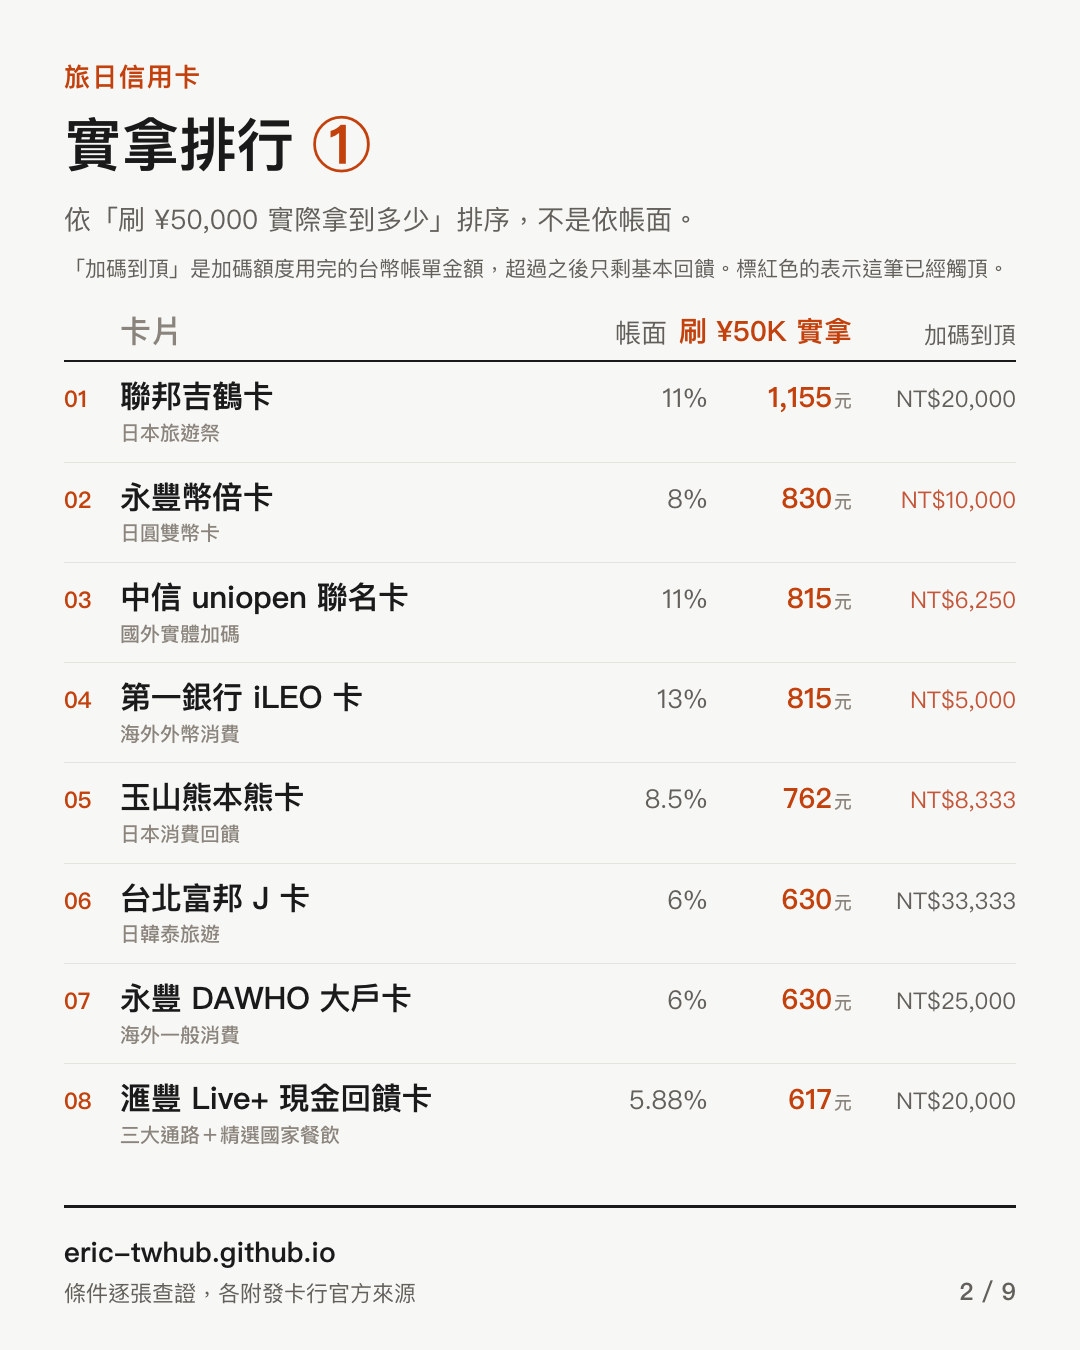
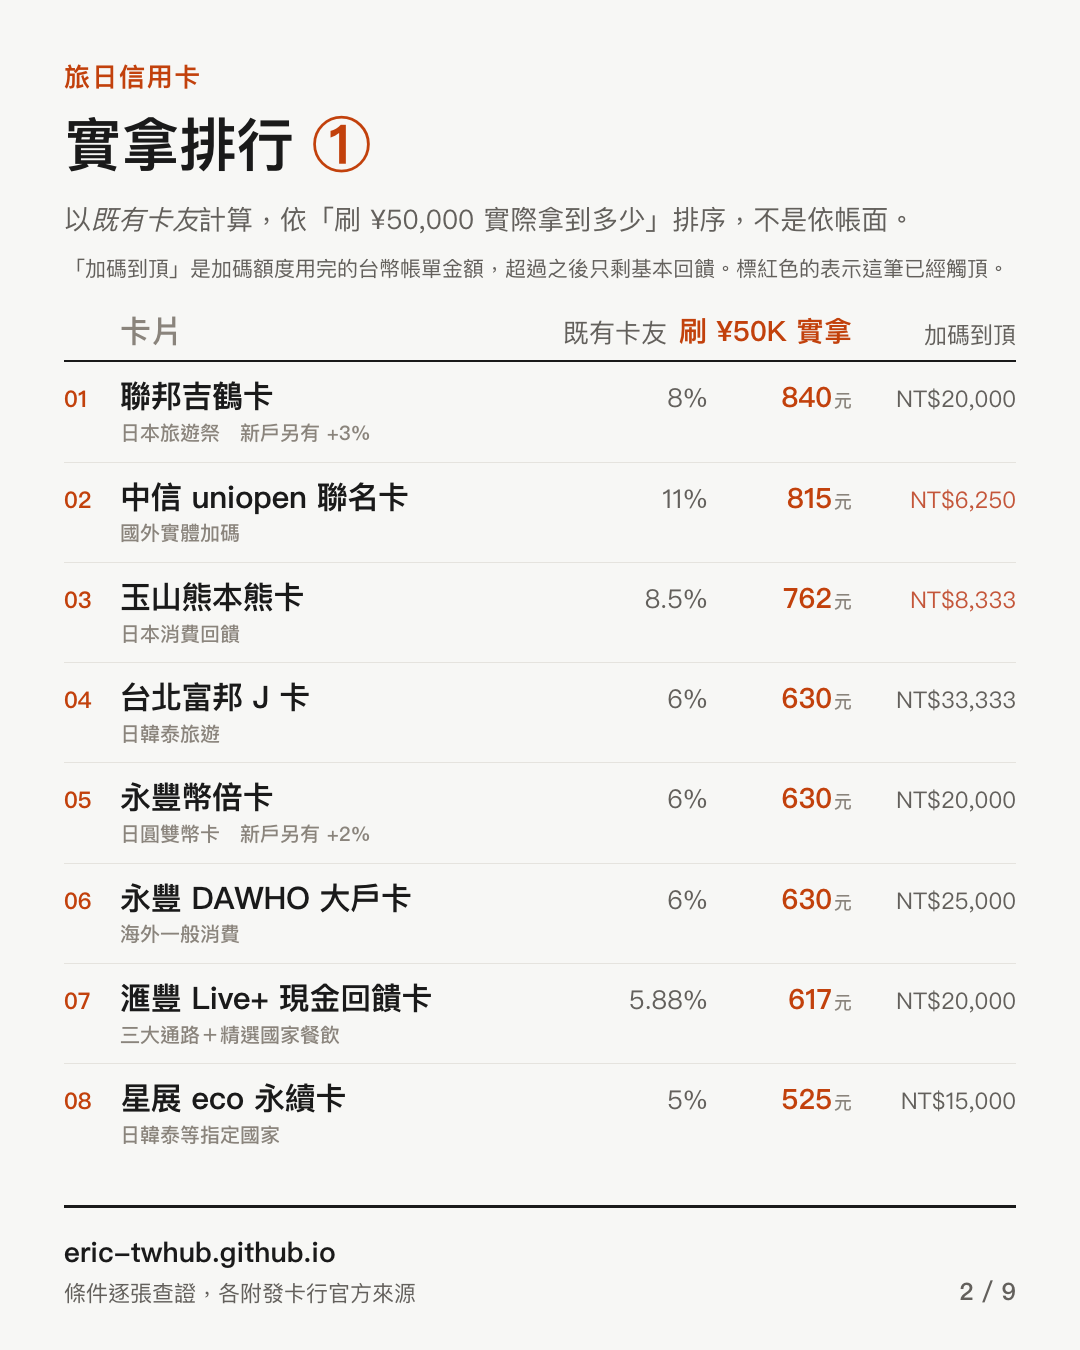
實拿排行改用既有卡友計算，新戶加碼不算進來
使用者指出排行偏高：新戶加碼是核卡後一次性的，15 張裡只有 3 張有，
而多數讀者手上的卡早就不是新辦的，照含新戶的數字排等於替大部分人高估。

排序、實拿金額、帳面欄、加碼到頂全部改成 newbie=False，hit() 也補上那個
參數，否則「加碼到頂」會印新戶那一層的門檻（iLEO 會印 5,000，實際是 20,000）。

排名變動很大：

  第一銀行 iLEO　第 4 名 815 元（13%）→ 第 15 名 315 元（3%），掉到最後
  聯邦吉鶴卡　　 第 1 名 1,155 元（11%）→ 仍第 1 但 840 元（8%）
  永豐幣倍卡　　 第 2 名 830 元（8%）→ 第 5 名 630 元（6%）
  中信 uniopen　第 3 名 → 第 2 名，815 元不變

那三張在卡名底下標「新戶另有 +X%」，數字沒有消失只是換位置，完整的
新戶對照仍在第 4 張。欄位標題從「帳面」改成「既有卡友」，副標寫明
「以既有卡友計算」。

第 5 張的階梯同步改：¥10,000 與 ¥30,000 的第一名從第一銀行 iLEO 變成
中信 uniopen，而且「含新戶加碼」那個標籤拿掉了，因為整張卡現在就是
以既有卡友計算，標了反而矛盾。

封面的實拿數字跟著改成 840，「帳面最高 13%、老客戶只有 3%」那組對照
不動，而且因為 iLEO 現在排最後，封面那句「那不是帳面第一名的那張」
反而更成立。

第一次重產時第 2 張超出頁尾 4px，副標從兩句縮成一句後過關。離開碼 0，
九張版面檢查全過，第 2 張開圖確認過。

diff --git a/make_creditcard_cards.py b/make_creditcard_cards.py
@@ -184,8 +184,8 @@ def make_math(CD, mid, fee):
         base = 0 if any(t.get('no_base') for t in ts) else c['base']
         return round(base + sum(t['rate'] for t in ts), 2)
 
-    def hit(c, scope='shop'):
-        ts = [t for t in tiers(c, scope) if t['cap']]
+    def hit(c, scope='shop', newbie=True):
+        ts = [t for t in tiers(c, scope, newbie) if t['cap']]
         return round(min(t['cap'] / (t['rate'] / 100) for t in ts)) if ts else 0
 
     return bill, tiers, back, maxrate, hit
@@ -201,8 +201,10 @@ def build(CD, mid, fee, rate_note):
     def rate_txt(v):
         return f'{v:g}%'
 
-    # 依「刷 DEMO_JPY 實際拿到多少」排序，這才是讀者真正會拿到的順序
-    ranked = sorted(cards, key=lambda c: -back(c, DEMO_JPY)[0])
+    # 依「刷 DEMO_JPY 實際拿到多少」排序，而且一律以既有卡友計算。
+    # 新戶加碼是核卡後一次性的，15 張裡只有 3 張有，算進去會讓整個排行偏高，
+    # 而多數讀者手上的卡早就不是新辦的。新戶的數字留在第 4 張單獨講。
+    ranked = sorted(cards, key=lambda c: -back(c, DEMO_JPY, 'shop', False)[0])
     newbie_gap = [c for c in cards if maxrate(c) != maxrate(c, newbie=False)]
 
     # ── 1 封面 ──
@@ -218,32 +220,36 @@ def build(CD, mid, fee, rate_note):
              f'<div><b>{maxrate(top_paper, newbie=False):g}%</b>'
              f'<span>同一張卡<br>老客戶只有</span></div>'
              f'<div><b>{len(newbie_gap)}</b><span>張的帳面<br>含新戶限定</span></div></div>'
-             f'<div class="note">實際刷 ¥{DEMO_JPY:,}（帳單約 NT${demo_bill:,.0f}）'
-             f'回饋最高的是<b>{E(top_real["name"])}</b>，'
-             f'拿得到 NT${back(top_real, DEMO_JPY)[0]:,.0f}。'
+             f'<div class="note">既有卡友實際刷 ¥{DEMO_JPY:,}'
+             f'（帳單約 NT${demo_bill:,.0f}）回饋最高的是'
+             f'<b>{E(top_real["name"])}</b>，'
+             f'拿得到 NT${back(top_real, DEMO_JPY, "shop", False)[0]:,.0f}。'
              f'那不是帳面第一名的那張。</div>' + foot(1, n))
     out.append(('jp-card-01.png', page(cover, 'cover')))
 
     # ── 2、3 帳面 vs 實際 ──
     def rank_card(idx, part, items, start):
         rows = ('<div class="hd"><div class="num"></div><div class="nm">卡片</div>'
-                '<div class="c1">帳面</div>'
+                '<div class="c1">既有卡友</div>'
                 f'<div class="c2">刷 ¥{DEMO_JPY // 1000}K 實拿</div>'
                 '<div class="c3">加碼到頂</div></div>')
         for j, c in enumerate(items, start):
-            v, capped = back(c, DEMO_JPY)
-            h = hit(c)
+            v, capped = back(c, DEMO_JPY, 'shop', False)
+            h = hit(c, 'shop', False)
+            nb = round(maxrate(c, 'shop') - maxrate(c, 'shop', newbie=False), 2)
             rows += (f'<div class="row"><div class="num">{j:02}</div>'
                      f'<div class="nm">{E(c["name"])}<s>{E(c["plan"])}'
+                     + (f'　新戶另有 +{nb:g}%' if nb else '')
                      + (f'　官方 {c["total"]:g}%，一層已額滿' if soldout(c) else '')
                      + '</s></div>'
-                     f'<div class="c1">{rate_txt(facerate(c))}</div>'
+                     f'<div class="c1">{rate_txt(maxrate(c, "shop", newbie=False))}</div>'
                      f'<div class="c2">{v:,.0f}<small>元</small></div>'
                      f'<div class="c3{" warn" if capped else ""}">'
                      + (f'NT${h:,}' if h else '無上限') + '</div></div>')
         return ('<div class="kick">旅日信用卡</div>'
                 f'<h1>實拿排行 <em>{part}</em></h1>'
-                f'<div class="sub">依「刷 ¥{DEMO_JPY:,} 實際拿到多少」排序，不是依帳面。</div>'
+                f'<div class="sub">以<em>既有卡友</em>計算，'
+                f'依「刷 ¥{DEMO_JPY:,} 實際拿到多少」排序，不是依帳面。</div>'
                 '<div class="legend">「加碼到頂」是加碼額度用完的台幣帳單金額，'
                 '超過之後只剩基本回饋。標紅色的表示這筆已經觸頂。</div>'
                 f'<div class="list">{rows}</div>' + foot(idx, n))
@@ -271,13 +277,12 @@ def build(CD, mid, fee, rate_note):
     rows = ('<div class="hd"><div class="num"></div><div class="nm">日幣消費</div>'
             '<div class="c2">回饋最高的卡</div><div class="c3">有效回饋率</div></div>')
     for y in LADDER:
-        best = max(cards, key=lambda c: back(c, y)[0])
-        v = back(best, y)[0]
+        best = max(cards, key=lambda c: back(c, y, 'shop', False)[0])
+        v = back(best, y, 'shop', False)[0]
         b = bill(y)
-        # 這幾張的第一名幾乎都帶條件，不標出來會看起來像人人有獎
+        # 第一名常常帶條件，不標出來會看起來像人人有獎。
+        # 「含新戶加碼」這個標籤拿掉了，因為這一張現在整個以既有卡友計算。
         tag = []
-        if maxrate(best) != maxrate(best, newbie=False):
-            tag.append('含新戶加碼')
         # reg_level 是整張卡的，但有 reg_monthly 的卡只有它指名的那一層要搶，
         # 第 6 張標的就是「只有◯◯那層」。這一張算的是日幣實體消費，
         # 吉鶴要搶的是交通卡儲值，不在這個數字裡面，標上去會讓人以為
